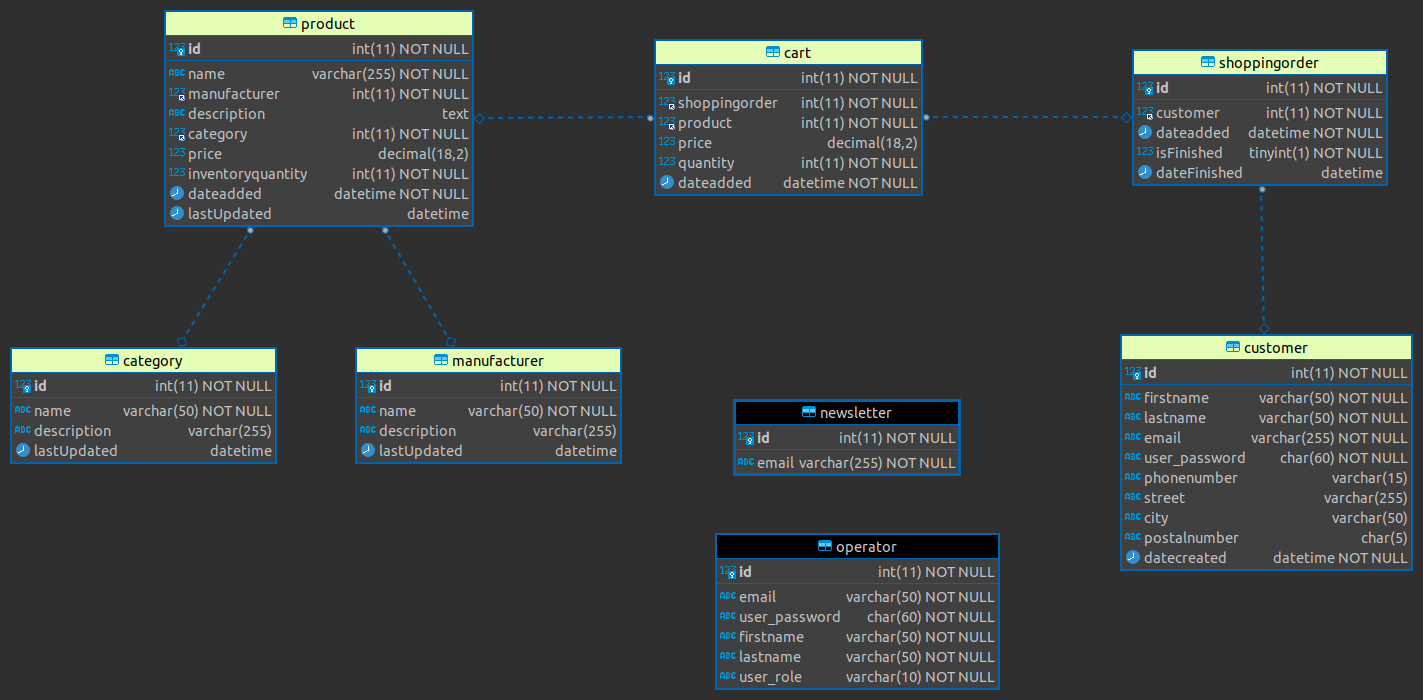
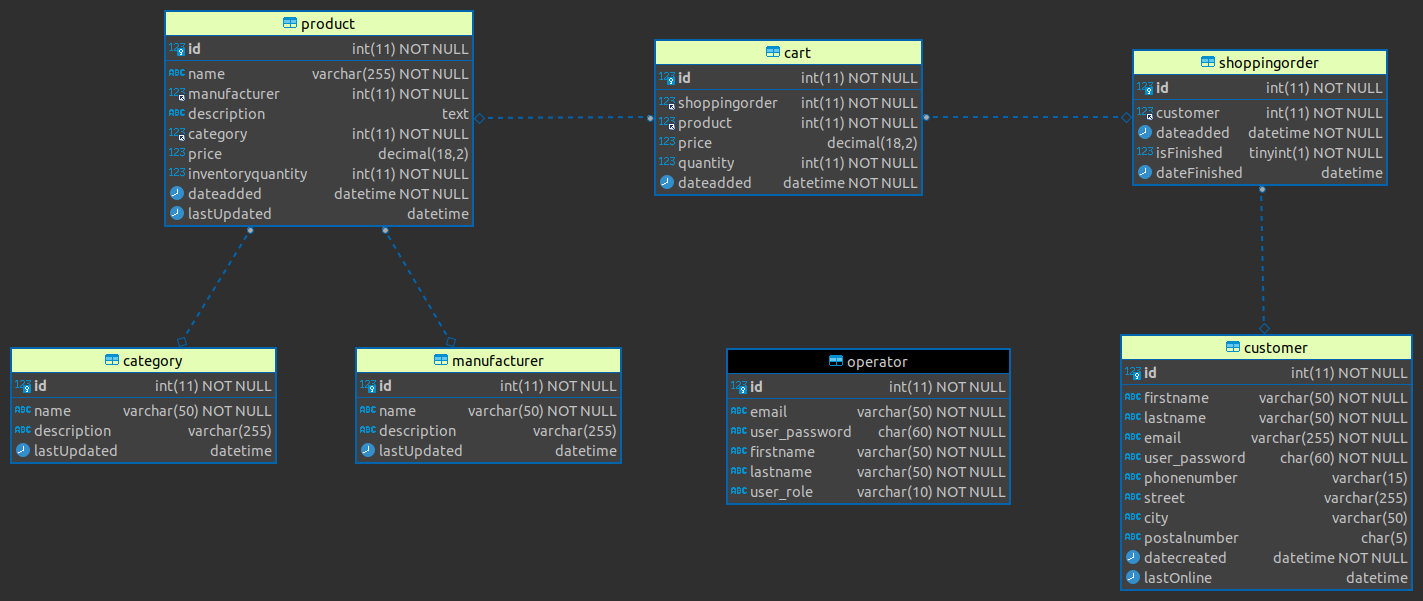
Updating ER diagram and AdminOrder JS

diff --git a/public/js/custom/AdminActiveOrders.js b/public/js/custom/AdminActiveOrders.js
@@ -43,10 +43,11 @@ $(".modal").on("click", function () {
             .append("<td class=\"text-center\">" + array[i].quantity + "</td>")
             .append("<td>" + array[i].productPrice + " kn</td>")
             .append("<td>" + array[i].price + " kn</td>")
-            .appendTo("#order");
+            .appendTo("#order"+ orderId);
         }
-        let total = 'Sveukupno: '+sum.toFixed(2) + ' kn';
-        $("<span>").append(total).appendTo("#sum");
+        let total = sum;
+        var formattedTotal = numeral(total).format('0,0.00');
+        $("<span>").append('Sveukupuno: ' + formattedTotal + ' kn').appendTo("#sum" + orderId);
       } else {
         alert("Dogodila se greška. Pokusajte ponovo!");
       }
@@ -60,8 +61,8 @@ $(".modal").on("click", function () {
   
     $('[data-reveal]').on('closed.zf.reveal', function () {
       var modal = $(this);
-      $("#order").empty();
-      $("#sum").empty();
+      $(".order").empty();
+      $(".sum").empty();
     });
   
     $(document).foundation();

diff --git a/public/js/custom/AdminFinalizedOrders.js b/public/js/custom/AdminFinalizedOrders.js
@@ -27,7 +27,6 @@ function submitForm(item) {
 // Get Finalized Order details
 $(".modal").on("click", function () {
   let orderId = $(this).data("id");
-  console.log(orderId);
   $.ajax({
     url: "/order/getFinalizedDetails/" + orderId,
     success: function (response, result) {
@@ -46,8 +45,8 @@ $(".modal").on("click", function () {
             .append("<td>" + numeral(array[i].price).format('0,0.00') + " kn</td>")
             .appendTo("#order" + orderId);
         }
-        let total = sum.toFixed(2);
-        var formattedTotal = numeral(total).format('0,0.0');
+        let total = sum;
+        var formattedTotal = numeral(total).format('0,0.00');
         $("<span>").append('Sveukupuno: ' + formattedTotal + ' kn').appendTo("#sum" + orderId);
       } else {
         alert("Dogodila se greška. Pokusajte ponovo!");

diff --git a/app/controller/admin/IndexController.php b/app/controller/admin/IndexController.php
@@ -23,7 +23,11 @@ class IndexController extends AuthorizedController
         $activeOrders=$this->nf1->format(Admin::activeOrders());
         $closedOrders=$this->nf1->format(Admin::closedOrders());
         $averageFinishedTotal=$this->nf2->format(Admin::sumFinishedTotal()/Admin::closedOrders());
-        $averageActiveTotal=$this->nf2->format(Admin::sumActiveTotal()/Admin::activeOrders());
+        if(Admin::activeOrders() != 0){
+            $averageActiveTotal=$this->nf2->format(Admin::sumActiveTotal()/Admin::activeOrders());
+        }else{
+            $averageActiveTotal=$this->nf2->format(0);
+        }
         $totalProducts=$this->nf1->format(Admin::totalProducts());
         $activeProducts=$this->nf1->format(Admin::activeProducts());
         $categories=Admin::byCategory();

diff --git a/app/controller/admin/OrderController.php b/app/controller/admin/OrderController.php
@@ -37,7 +37,8 @@ class OrderController extends AuthorizedController
             'search'=>$search,
             'orders'=>$orders,
             'totalOrders'=>$totalOrders,
-            'javascript'=>'<script src="'. App::config('url'). 'public/js/custom/AdminActiveOrders.js"></script>'
+            'javascript'=>'<script src="'. App::config('url'). 'public/js/custom/AdminActiveOrders.js"></script>
+            <script src="//cdnjs.cloudflare.com/ajax/libs/numeral.js/2.0.6/numeral.min.js"></script>'
         ]);
         return;
     }
